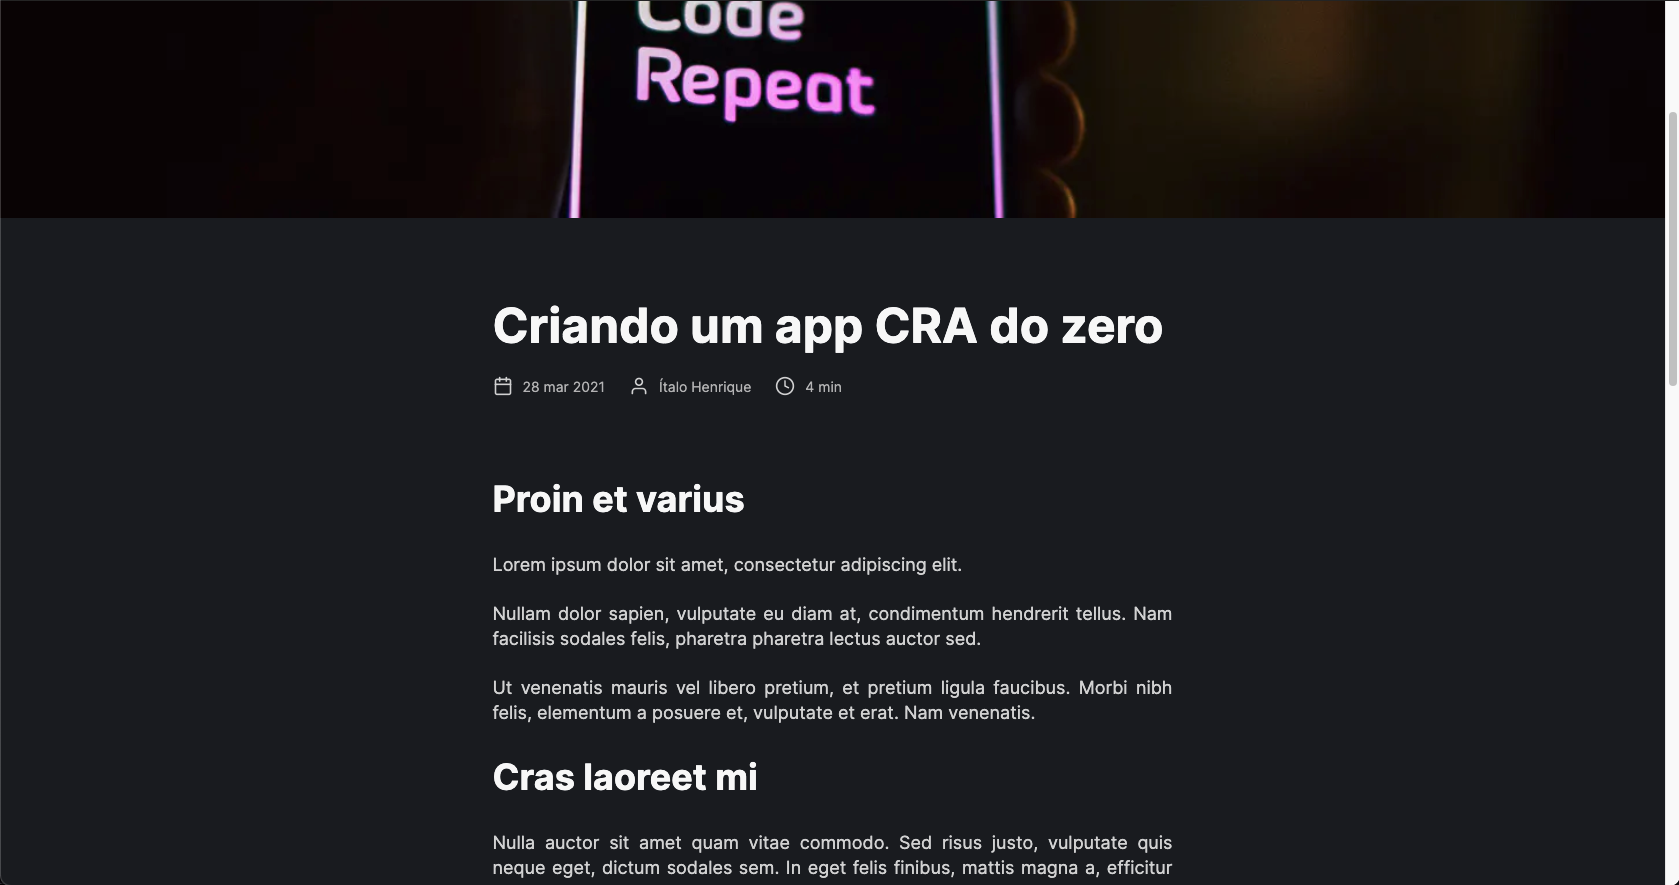
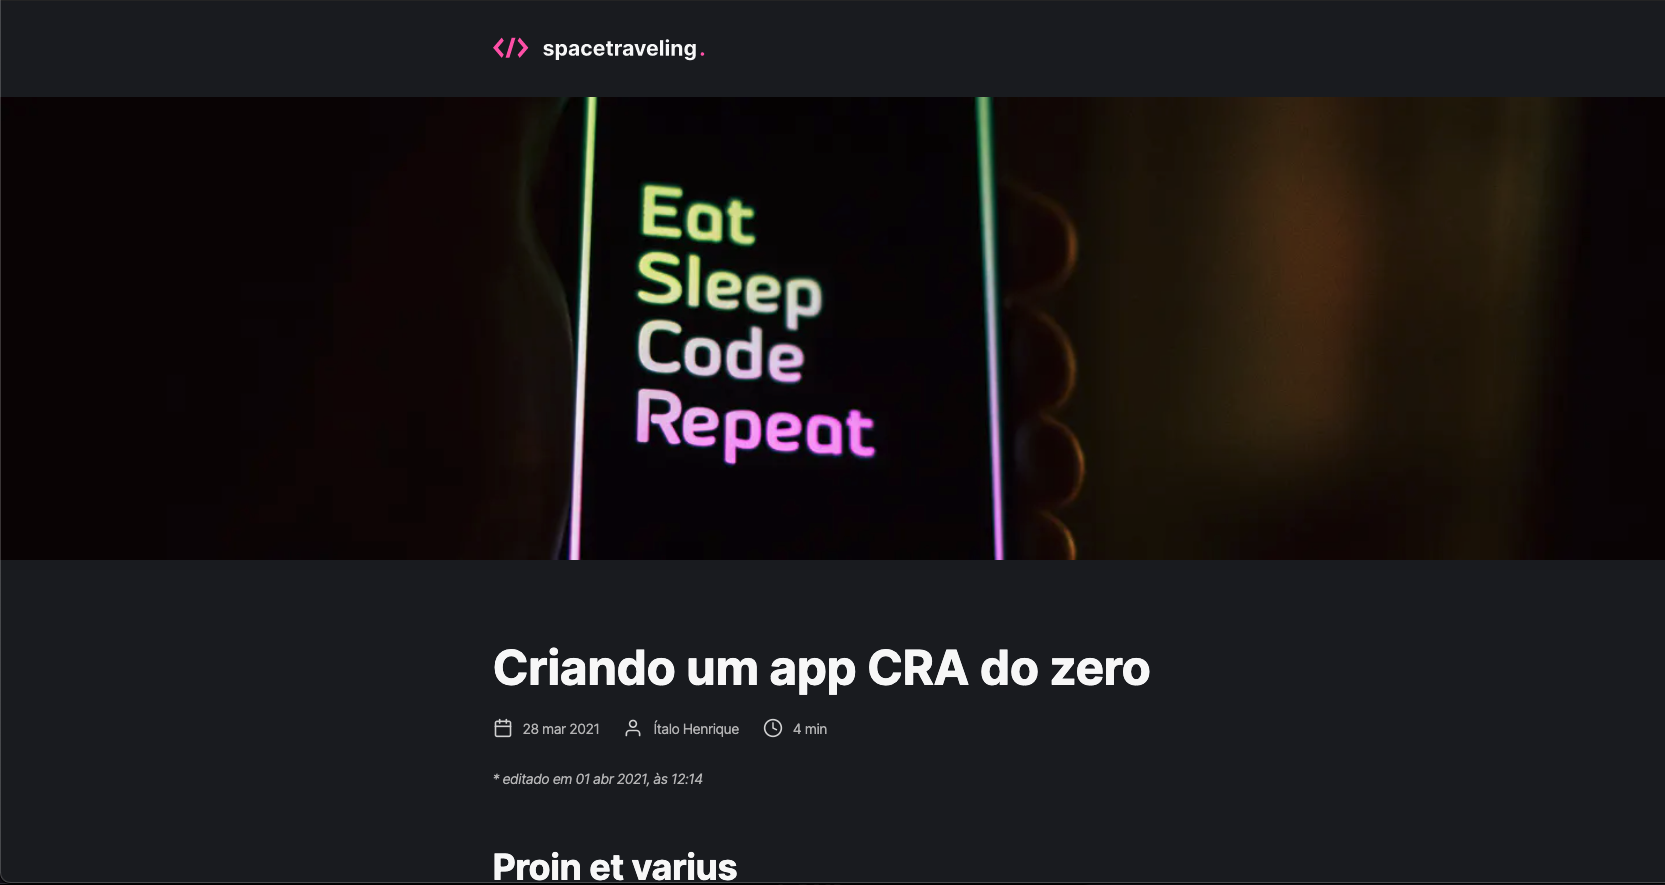
Update post screenshot

diff --git a/src/pages/post/[slug].tsx b/src/pages/post/[slug].tsx
@@ -117,7 +117,10 @@ export default function Post({ post, navigation }: PostProps) {
               </div>
             </footer>
 
-            <time>{`* editado em ${formatedLastPublicationDate}, às ${formatedLastPublicationHour}`}</time>
+            {post.last_publication_date &&
+            (<time>
+              {`* editado em ${formatedLastPublicationDate}, às ${formatedLastPublicationHour}`}
+            </time>)}
           </header>
 
 
@@ -231,9 +234,6 @@ export const getStaticProps: GetStaticProps = async ({
       }),
     },
   };
-
-  console.log(prevPost)
-  console.log(nextPost)
 
   return {
     props: {
